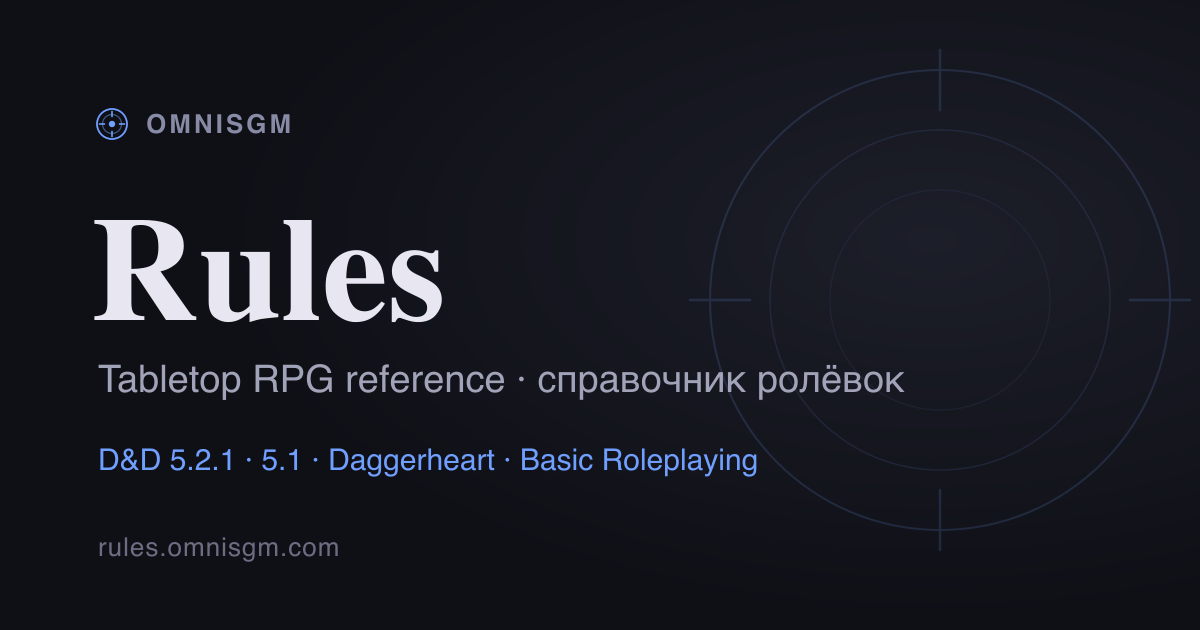
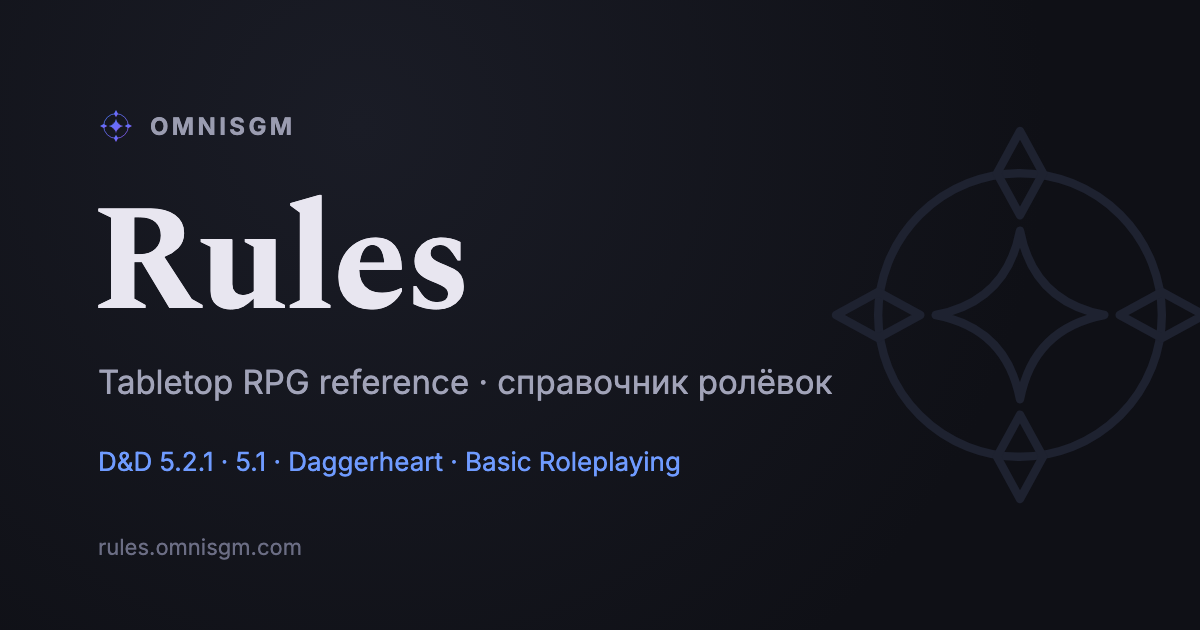
Brand: link preview card with the compass mark instead of the old crosshair (#467)
Part of #466. Re-rendered public/og.png from the brand kit (compass mark, Spectral/Inter) via web/scripts/og-card; the renderer fails on unloaded fonts or mark; test_tools_scope.mjs walks subdirectories.

Claude-Session: https://claude.ai/code/session_01WpZFAJnWNgkswDmHd5KVhF

diff --git a/web/scripts/og-card/card.html b/web/scripts/og-card/card.html
@@ -1,0 +1,35 @@
+<!doctype html>
+<!-- OG-карточка 1200×630 (#466) для scripts/og-card/render.mjs. Раскладка — как у карточки v1, знак — компас
+     кита (`assets/mark.svg`, `assets/mark-outline.svg`); __BRAND__ — путь к ассетам кита. -->
+<html>
+<head>
+<meta charset="utf-8" />
+<style>
+  @font-face { font-family: Spectral; font-weight: 700; src: url('__BRAND__/fonts/spectral-700-latin.woff2') format('woff2'); }
+  @font-face { font-family: Inter; font-weight: 100 900; src: url('__BRAND__/fonts/inter-latin.woff2') format('woff2'); }
+  @font-face { font-family: Inter; font-weight: 100 900; src: url('__BRAND__/fonts/inter-cyrillic.woff2') format('woff2');
+               unicode-range: U+0400-045F, U+0490-0491, U+04B0-04B1, U+2116; }
+  html, body { margin: 0; }
+  body { width: 1200px; height: 630px; position: relative; overflow: hidden; font-family: Inter, sans-serif;
+         background: radial-gradient(circle at 30% 20%, #1a1c26 0%, #0f1016 70%); }
+  .ghost { position: absolute; left: 790px; top: 85px; width: 460px; height: 460px; color: #1e2230; }
+  .ghost svg { width: 100%; height: 100%; }
+  .brand { position: absolute; left: 96px; top: 106px; display: flex; align-items: center; gap: 14px;
+           color: #9a9cb0; font-size: 24px; font-weight: 700; letter-spacing: 0.14em; }
+  .brand img { width: 40px; height: 40px; }
+  .title { position: absolute; left: 92px; top: 188px; color: #e8e6f0; font-family: Spectral, serif;
+           font-weight: 700; font-size: 150px; line-height: 1; letter-spacing: -0.01em; }
+  .sub { position: absolute; left: 98px; top: 362px; color: #a1a3b8; font-size: 33px; }
+  .systems { position: absolute; left: 98px; top: 446px; color: #6f9bff; font-size: 26px; }
+  .url { position: absolute; left: 98px; top: 534px; color: #6b6d84; font-size: 22px; }
+</style>
+</head>
+<body>
+  <div class="ghost">__GHOST__</div>
+  <div class="brand"><img src="__BRAND__/mark.svg" alt="" />OMNISGM</div>
+  <div class="title">Rules</div>
+  <div class="sub">Tabletop RPG reference · справочник ролёвок</div>
+  <div class="systems">D&amp;D 5.2.1 · 5.1 · Daggerheart · Basic Roleplaying</div>
+  <div class="url">rules.omnisgm.com</div>
+</body>
+</html>
